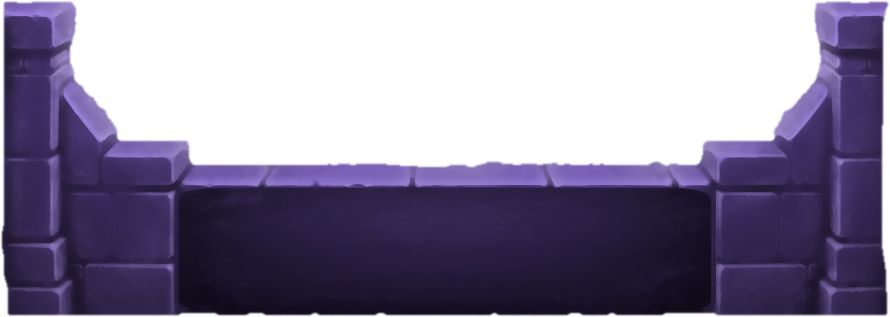
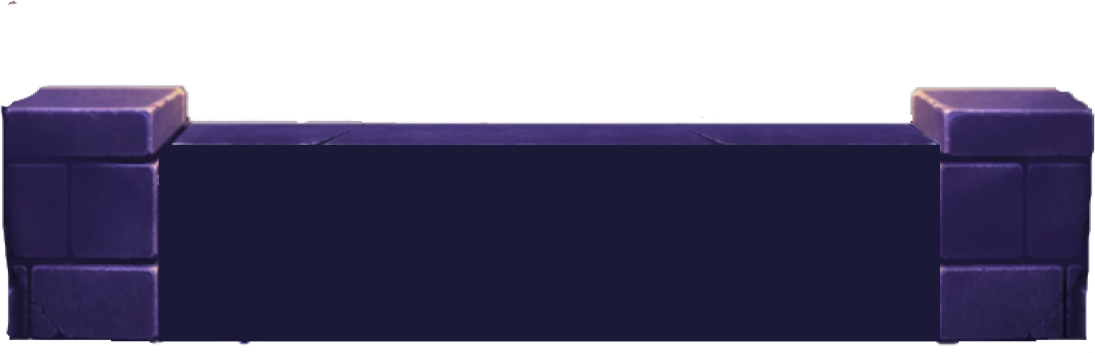
feat(home): terrace uses Pete's flat buttons, new casing and back wall; wall/casing keep art aspect
Claude-Session: https://claude.ai/code/session_012mL7SLkKnojXwkd9W51Fsz

diff --git a/app/ui/homeTerraceScene.ts b/app/ui/homeTerraceScene.ts
@@ -84,8 +84,8 @@ export const TERRACE_ANCHOR: Record<TerraceElementId, TerraceAnchor> = {
 // Art aspect ratios (height / width) of the shipped images.
 export const TERRACE_ASPECT = {
   logo: 251 / 1558,
-  wall: 317 / 890,
-  casing: 548 / 795,
+  wall: 353 / 1095,
+  casing: 1034 / 1458,
   castle: 487 / 715,
   cageTop: 363 / 400,
   cageBase: 292 / 420,
@@ -118,21 +118,20 @@ export const TERRACE_DEFAULTS: Record<TerraceElementId, TerraceRect> = {
 
 export const TERRACE_CAGE_TOP_ROTATION_DEG = 9;
 
-// The opening in the casing and the two slabs, as fractions of the casing rect, so they move and
-// scale with it. Measured from the cleaned casing art (hole 617 x 382 of 795 x 548).
+// The opening in the casing and the two flat buttons, as fractions of the casing rect, so they move
+// and scale with it. Measured from Pete's 2026-10-21 casing art (1458 x 1034; hole 1140 x 705 at
+// x 161, y 143). Buttons are his flat art: Hunt 1117 x 404, Polybook 1121 x 263.
 export const TERRACE_NICHE = {
-  x: (86.9 - 46) / 349.8,
-  y: (736.1 - 700) / 241.1,
-  w: 271.5 / 349.8,
-  h: 168.1 / 241.1,
+  x: 161 / 1458,
+  y: 143 / 1034,
+  w: 1140 / 1458,
+  h: 705 / 1034,
 } as const;
-// Slabs inside the niche, INSET with a dark margin around them and a gap between (as in Pete's
-// original composite). x / w are fractions of the niche width, y / h of the niche height.
-// Pixel basis: niche 617 x 382; Hunt art 619 x 243, Polybook art 619 x 128 (aspect kept).
-const SLAB_W = 555 / 617;
+// Buttons inside the niche (x / w fractions of niche width, y / h of niche height), as in Pete's
+// own composite: centred, about 17 px margin on a 1140 x 705 opening, a 7 px gap between.
 export const TERRACE_SLABS = {
-  hunt: { x: (617 - 555) / 2 / 617, w: SLAB_W, y: 18 / 382, h: (555 * 243) / 619 / 382 },
-  book: { x: (617 - 555) / 2 / 617, w: SLAB_W, y: 248 / 382, h: (555 * 128) / 619 / 382 },
+  hunt: { x: (1140 - 1117) / 2 / 1140, w: 1117 / 1140, y: 17 / 705, h: 404 / 705 },
+  book: { x: (1140 - 1121) / 2 / 1140, w: 1121 / 1140, y: 428 / 705, h: 263 / 705 },
 } as const;
 
 // Castle windows and door glow, as fractions of the castle rect (from the mock's overlays).
@@ -156,6 +155,15 @@ export const TERRACE_CASTLE_WINDOWS: readonly TerraceWindow[] = [
 export const TERRACE_GROUND_SEAM_ROWS = [22, 54, 96, 150, 218, 300] as const;
 export const TERRACE_GROUND_SEAM_COLUMNS_BOTTOM_X = [-440, -290, -140, 10, 160, 310, 460, 610, 760] as const;
 export const TERRACE_GROUND_VANISH = { x: 221, y: -260 } as const;
+
+// Wall and console are single pictures: the DEV tool only scales them uniformly, so their height
+// always follows their width. This also keeps old saved overrides (made against earlier art with a
+// different aspect) from stretching the new art.
+const ASPECT_LOCKED: ReadonlySet<TerraceElementId> = new Set<TerraceElementId>(['wall', 'casing']);
+export function lockTerraceAspect(id: TerraceElementId, rect: TerraceRect): TerraceRect {
+  if (!ASPECT_LOCKED.has(id)) return rect;
+  return { ...rect, h: rect.w * (TERRACE_ASPECT as Record<string, number>)[id] };
+}
 
 export type TerraceOverrides = Partial<Record<TerraceElementId, Partial<TerraceRect>>>;
 
@@ -192,7 +200,7 @@ function rectFor(
   const x = o.x ?? base.x;
   const y = o.y ?? base.y;
   const w = o.w ?? base.w;
-  const h = o.h ?? base.h;
+  const h = lockTerraceAspect(id, { x, y, w, h: o.h ?? base.h }).h;
   const top =
     TERRACE_ANCHOR[id] === 'top'
       ? viewport.insetTop + y * k

diff --git a/app/components/HomeTerraceScene.tsx b/app/components/HomeTerraceScene.tsx
@@ -29,8 +29,8 @@ const ART = {
   castle: require('../../assets/images/home/terrace/castle.webp'),
   wall: require('../../assets/images/home/terrace/wall.png'),
   casing: require('../../assets/images/home/terrace/casing.png'),
-  slabHunt: require('../../assets/images/home/terrace/slab_hunt.png'),
-  slabBook: require('../../assets/images/home/terrace/slab_book.png'),
+  slabHunt: require('../../assets/images/home/terrace/btn_hunt.png'),
+  slabBook: require('../../assets/images/home/terrace/btn_book.png'),
   cageTop: require('../../assets/images/home/terrace/cage_top.png'),
   cageBase: require('../../assets/images/home/terrace/cage_base.png'),
   perch: require('../../assets/images/home/terrace/perch.png'),

diff --git a/app/dev/homeTerraceTuning.ts b/app/dev/homeTerraceTuning.ts
@@ -3,6 +3,7 @@ import { create } from 'zustand';
 import {
   TERRACE_DEFAULTS,
   TERRACE_ELEMENT_IDS,
+  lockTerraceAspect,
   TerraceElementId,
   TerraceOverrides,
   TerraceRect,
@@ -86,7 +87,7 @@ const round2 = (n: number) => Math.round(n * 100) / 100;
 
 /** The element's current rect: its override over its default. */
 export function currentRect(id: TerraceElementId, overrides: TerraceOverrides): TerraceRect {
-  return { ...TERRACE_DEFAULTS[id], ...(overrides[id] ?? {}) };
+  return lockTerraceAspect(id, { ...TERRACE_DEFAULTS[id], ...(overrides[id] ?? {}) });
 }
 
 /** Plain-text readout of every element's final values, for Pete to copy. */

diff --git a/tools/art/home_terrace/cut_buttons_v2.py b/tools/art/home_terrace/cut_buttons_v2.py
@@ -1,0 +1,23 @@
+# Pete's flat-button console art (2026-10-21). Usage: python3 cut_buttons_v2.py <uploads_dir> <out_dir>
+# Inputs (his files): polybook bar, hunt bar, casing-with-hole, wall. Makes the hole transparent
+# (flood from centre over near-black pixels) so the tunnel/dark niche behind can show.
+import sys
+import numpy as np
+from PIL import Image
+from scipy import ndimage
+up, out = sys.argv[1], sys.argv[2]
+def load(n): return Image.open(f'{up}/{n}-image.png').convert('RGBA')
+def trim(im, box=None):
+    a = np.array(im); al = a[:, :, 3] > 8
+    rgb = a[:, :, :3]; nonwhite = ~((rgb > 240).all(2))
+    ys, xs = np.where(al & nonwhite) if box is None else (None, None)
+    return im.crop((xs.min(), ys.min(), xs.max() + 1, ys.max() + 1)) if box is None else im.crop(box)
+trim(load('eab71c44')).save(f'{out}/btn_book.png')   # 1121 x 263
+trim(load('2c431ab9')).save(f'{out}/btn_hunt.png')   # 1117 x 404
+cas = load('f248027c').crop((50, 239, 1508, 1273))    # 1458 x 1034
+a = np.array(cas); dark = (a[:, :, :3].max(2) < 14) & (a[:, :, 3] > 10)
+lab, _ = ndimage.label(dark); hole = lab == lab[a.shape[0] // 2, a.shape[1] // 2]
+ys, xs = np.where(hole); print('hole', xs.min(), ys.min(), xs.max(), ys.max())
+a[hole, 3] = 0
+Image.fromarray(a).save(f'{out}/casing.png')
+trim(load('a41c3e96')).save(f'{out}/wall.png')       # 1095 x 353
